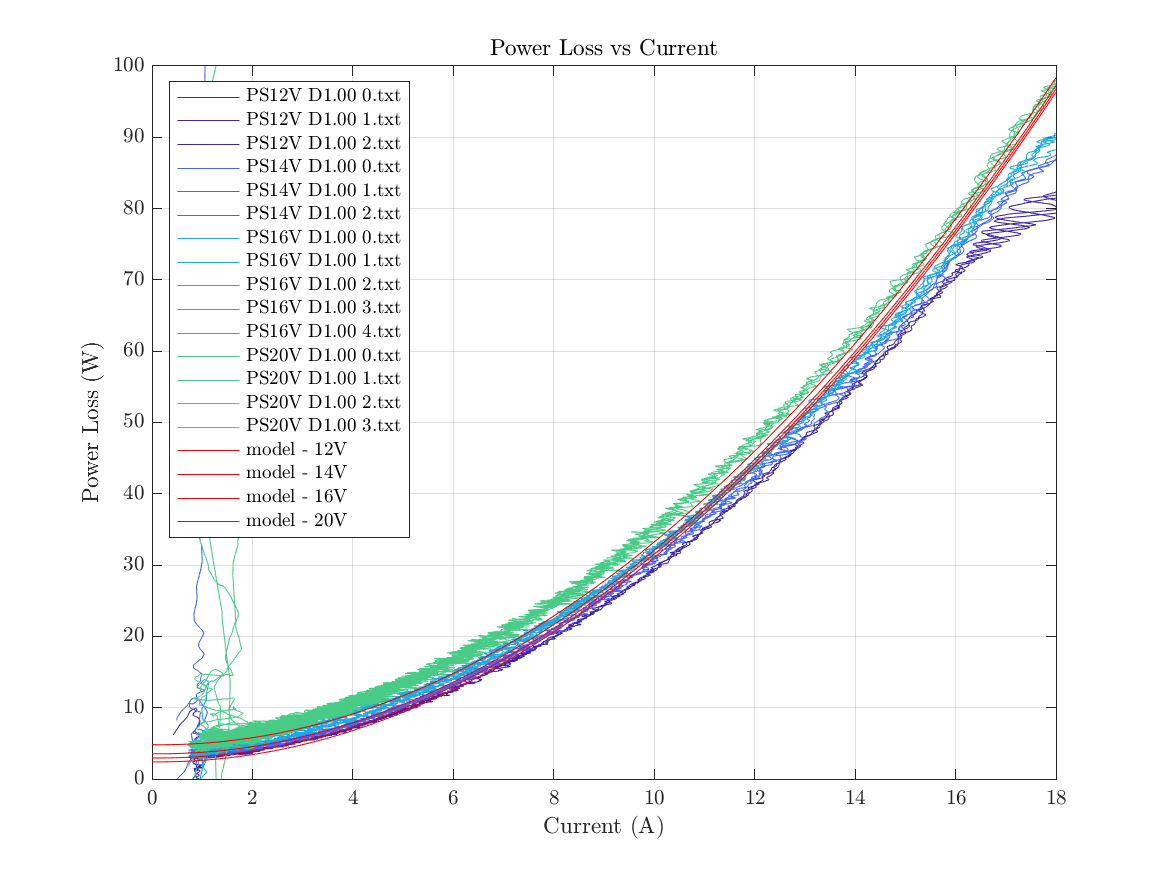
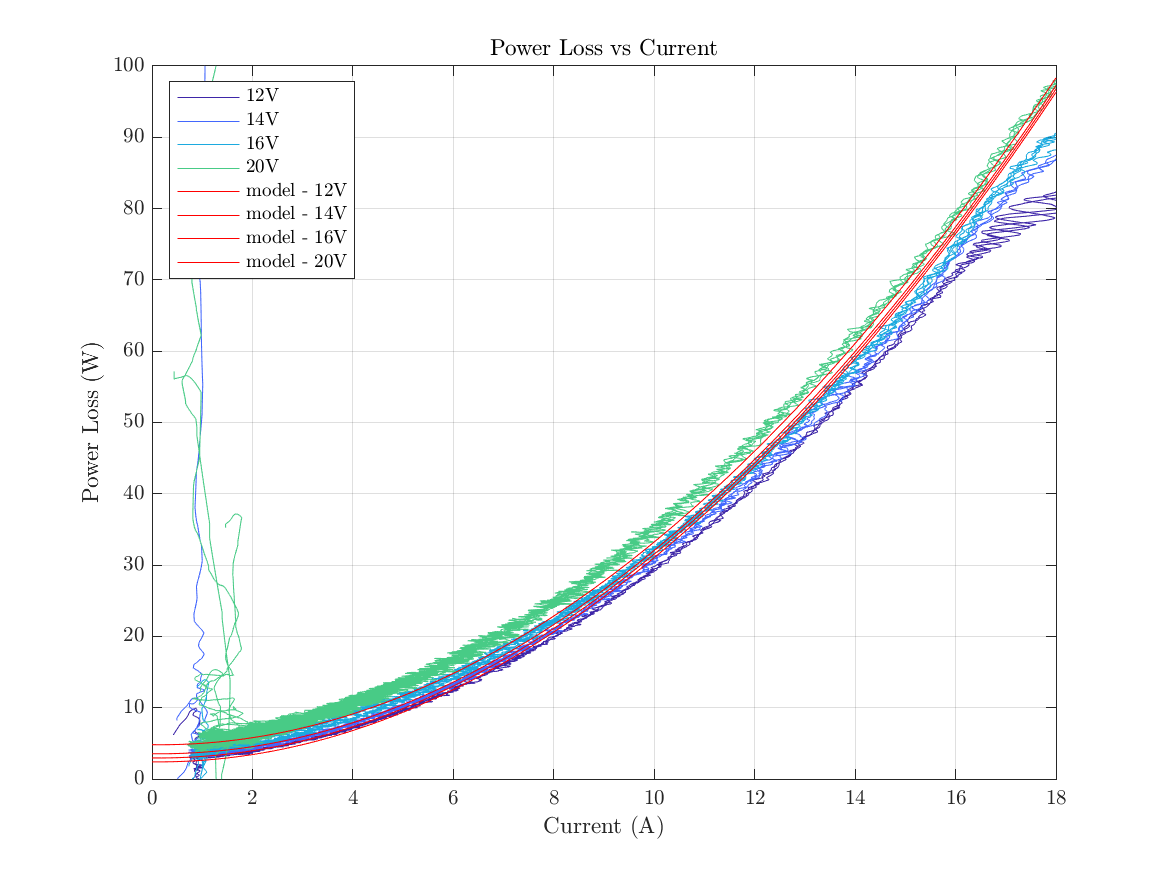
touch up plots

Changed region(s): [[0.1542, 0.0926, 0.3393, 0.6171]]

diff --git a/DynoData/Koford/2019_jun2/analyzeSingle.m b/DynoData/Koford/2019_jun2/analyzeSingle.m
@@ -101,7 +101,7 @@ function [Rs, Kv, mysteryLosses, R2] = analyzeSingle(filePath, linecolor, toPlot
         else
             visi = 'off';
         end
-        plot(rpm_motor(rpmCut), smooth(eff(rpmCut),800), ['-'], 'DisplayName', filename(3:5),'Color',linecolor,'HandleVisibility',visi); hold on;
+        plot(rpm_motor(currCutoff:end), smooth(eff(currCutoff:end),800), ['-'], 'DisplayName', filename(3:5),'Color',linecolor,'HandleVisibility',visi); hold on;
     %     yyaxis right
     %     plot(rpmMotor, mPower, '-');
 
@@ -115,7 +115,7 @@ function [Rs, Kv, mysteryLosses, R2] = analyzeSingle(filePath, linecolor, toPlot
         plot(rpm_motor, current, ['.'], 'Color', linecolor, 'DisplayName', filename); hold on;
         plot(rpm_motor, [rpm_motor,voltage]*CoRV, [':'], 'Color', linecolor, 'DisplayName', filename);
         linkaxes([ax1,ax2],'x');
-
+    
         figure(4);
         plot(rpm_motor, accel, 'Color', linecolor, 'DisplayName',filename); hold on;
 
@@ -125,16 +125,21 @@ function [Rs, Kv, mysteryLosses, R2] = analyzeSingle(filePath, linecolor, toPlot
         currentPlot2 = smooth(currentPlot,300);
         plot(currentPlot2(1:50:end), rpm_motor(1:50:end), ['-'], 'Color', linecolor, 'DisplayName','RPM','HandleVisibility',legendShow); hold on;
         yyaxis right
-%         cToPlot = linspace(0,18,50);% +rand(1)*18/50;
-%         t1 = smooth(torque,50);
-%         torqueToPlot = spline(currentPlot(1:100:end),13/60*t1(1:100:end),cToPlot);
-%         torqueToPlot = deleteoutliers(torqueToPlot,[],1);
-%         plot(cToPlot, torqueToPlot*100, ['^'], 'Color', linecolor, 'DisplayName','Torque (N.cm)','HandleVisibility',legendShow,'MarkerSize',5); hold on;
-        plot(currentPlot(1:200:end), torque(1:200:end)*100, ['^'], 'Color', linecolor, 'DisplayName','Torque (N.cm)','HandleVisibility',legendShow,'MarkerSize',5); hold on;
+        cToPlot = linspace(0,18,50);% +rand(1)*18/50;
+        t1 = smooth(torque,50);
+        torqueToPlot = spline(currentPlot(1:100:end),13/60*t1(1:100:end),cToPlot);
+        torqueToPlot = deleteoutliers(torqueToPlot,[],1);
+        plot(cToPlot, torqueToPlot*100, ['^'], 'Color', linecolor, 'DisplayName','Torque (N.cm)','HandleVisibility',legendShow,'MarkerSize',5); hold on;
+%         plot(currentPlot(1:200:end), torque(1:200:end)*100, ['^'], 'Color', linecolor, 'DisplayName','Torque (N.cm)','HandleVisibility',legendShow,'MarkerSize',5); hold on;
         plot(currentPlot(1:10:end), eff(1:10:end)*100, ['.'], 'Color', linecolor, 'DisplayName','Efficiency (\%)','HandleVisibility',legendShow,'MarkerSize',1);
         
+        if (filename(end-4)=='0')
+            visi = 'on';
+        else
+            visi = 'off';
+        end
         figure(6);
-        plot(currentPlot, smooth(ePower - mPower,500), '-', 'Color',linecolor,'DisplayName', filename); hold on;
+        plot(currentPlot, smooth(ePower - mPower,500), '-', 'Color',linecolor,'DisplayName', filename(3:5),'HandleVisibility',visi); hold on;
         
 %         eff2 = 1 - (currentPlot(toFit).^2*Rs + polyval(mysteryLosses,rpm_motor(toFit)))./ePower(toFit);
 %         plot(currentPlot(toFit), eff2*100, ['<'], 'Color', linecolor, 'DisplayName','Efficiency (%)','HandleVisibility',legendShow,'MarkerSize',10);

diff --git a/DynoData/Koford/2019_jun2/analyzeAll.m b/DynoData/Koford/2019_jun2/analyzeAll.m
@@ -13,9 +13,9 @@ load ../spindown/spindown_noChain_jun2_before
 filesStruct = dir('*.txt');
 
 % filenameFormat = 'PS(?<voltage>\d+)V_D(?<duty>[01].\d+)_\d\.txt';
-% filenameFormat = 'PS(?<voltage>\d+)V(?<comm>.*?)_D(?<duty>-?[01].\d+)(?<mode>sync)?_\d\.txt';
+filenameFormat = 'PS(?<voltage>\d+)V(?<comm>.*?)_D(?<duty>-?[01].\d+)(?<mode>sync)?_\d\.txt';
 % filenameFormat = 'PS(?<voltage>\d+)V_D(?<duty>[01].\d+)(?<mode>sync)?_a(?<advance>-?\d+)_\d\.txt';
-filenameFormat = 'PS(?<current>\d+)A(?<comm>.*?)_D(?<duty>[01].\d+)(?<mode>sync)?_\d\.txt';
+% filenameFormat = 'PS(?<current>\d+)A(?<comm>.*?)_D(?<duty>[01].\d+)(?<mode>sync)?_\d\.txt';
 
 ismemberstruct = @(A, B) arrayfun( @(x) isequal( B, x ), A );
 allParameters = [];
@@ -95,12 +95,11 @@ set(groot, 'defaultLegendInterpreter','latex');
 set(groot, 'defaultTextInterpreter','latex');
 
 figure(1);
-legend(gca,'show','Location','SouthEast');
+legend(gca,'show','Location','NorthWest');
 % yyaxis left
 xlabel('RPM'); ylabel('Efficiency (\%)'); title('Efficiency vs Speed');
 grid on;
-ylim([0.75, 0.90]);
-xlim([750,3000]);
+ylim([0.6, .95]);
 % xlim([1000,4000]);
 % yyaxis right
 % ylabel('Power');
@@ -141,18 +140,18 @@ ylabel('Speed (RPM)'); ylim([0,5000]);
 yyaxis right
 ylabel('Torque (N.cm) and Efficiency (\%)'); ylim([0,100]);
 width = 4;
-rectangle('Position',[12,5,width,2*(2+length(allParameters))],'FaceColor','w');
+rectangle('Position',[12,5,width,4*(2+length(allParameters))],'FaceColor','w');
 for i = 1:length(allParameters)
     fields = fieldnames(allParameters(i));
     vals = cellfun(@(f) getfield(allParameters(i),f),fields,'UniformOutput',false);
     fields = cellfun(@(f) f(1:end), fields,'UniformOutput',false);
     allP = {fields{[1]};vals{[1]}};
 %     allP = {'advance',allParameters(i).advance};
-    text(12+width/2, 5+2*(length(allParameters)-i+2), ...
+    text(12+width/2, 5+4*(length(allParameters)-i+2), ...
         sprintf('%s=%sV', allP{:}),...
         'Color',allPlotColors(i,:),'FontSize',12,'FontName','FixedWidth','HorizontalAlignment','center');
 end
-text(12+width/2, 5+2*(1), 'motor model', ...
+text(12+width/2, 5+4*(1), 'motor model', ...
         'Color','r','FontSize',12,'FontName','FixedWidth','HorizontalAlignment','center');
     
 figure(6);

diff --git a/DynoData/Koford/2019_jun2/motorModel.m b/DynoData/Koford/2019_jun2/motorModel.m
@@ -1,19 +1,16 @@
 %% process Model
 
 if (exist('p1','var'))
-    delete(p0);
     delete(p1);
     delete(p2);
     delete(p3);
-    delete(p4);
 end
 load ../noLoad/nonElectricalLosses
 % load ../spindown/chain+mag_sketchy
 % mystery = mean(allMys(allR2>.35,:),1);
-modelKv = 188.9025; % mean(allKv);
-modelRs = 0.2671; % mean(allRs)*1.1;
+modelKv = mean(allKv);
+modelRs = mean(allRs)*1.1;
 modelKt = 1./(modelKv*2*pi/60);
-PvsERPM(2) = PvsERPM(2)*1.1;
 paramSets = table();
 for i = 1:length(allParameters)
     paramSets.Kv(i) = mean(allKv(allChar==i));
@@ -28,9 +25,8 @@ for i = 1:length(allParameters)
         paramSets.(field)(i,:) = getfield(allParameters(i),field);
     end
     
-    V = linspace(6,18,99)'; %str2num(paramSets.voltage(i,:));
-    IVals = str2num(paramSets.current(i,:))*ones(size(V)); %linspace(0,18,99)';
-    
+    V = str2num(paramSets.voltage(i,:));
+    IVals = linspace(0,18,99)';
 %     modelRPM = (V - IVals*paramSets.Rs(i)) * paramSets.Kv(i);
 %     modelTorque = IVals * paramSets.Kt(i) * 1;
 %     modelLosses = [IVals.^2*paramSets.Rs(i), polyval(PvsERPM,modelRPM*2)];
@@ -38,13 +34,13 @@ for i = 1:length(allParameters)
     modelTorque = IVals * modelKt * 1;
     modelLosses = [IVals.^2*modelRs, polyval(PvsERPM,modelRPM*2)];
 %     modelLosses = [IVals.^2*paramSets.Rs(i), polyval(paramSets.Mys(i,:),modelRPM)];
-    modelEff = 1 - sum(modelLosses,2) ./ (IVals .* V);
+    modelEff = 1 - sum(modelLosses,2) ./ (IVals * V);
     
 %     linecolor = allPlotColors{mod(i-1,length(allPlotColors))+1};
     linecolor = 'r';
     
     figure(1);
-    p0(i)=plot(modelRPM,modelEff,'r-','DisplayName',['model - ',num2str(IVals(1)),'A']);
+    plot(modelRPM, modelEff, '-', 'Color',linecolor,'DisplayName', ['model - ',num2str(V),'V']); hold on;
     
     figure(5);
     yyaxis left
@@ -55,7 +51,7 @@ for i = 1:length(allParameters)
     legendShow = 'off';
     
     figure(6);
-    p4(i)=plot(IVals, sum(modelLosses,2), '-', 'Color',linecolor,'DisplayName', ['model - ',num2str(V(1)),'V']); hold on;
+    plot(IVals, sum(modelLosses,2), '-', 'Color',linecolor,'DisplayName', ['model - ',num2str(V),'V']); hold on;
 end
 paramSets.Kv(length(allParameters)+1) = modelKv;
 paramSets.Rs(length(allParameters)+1) = modelRs;
